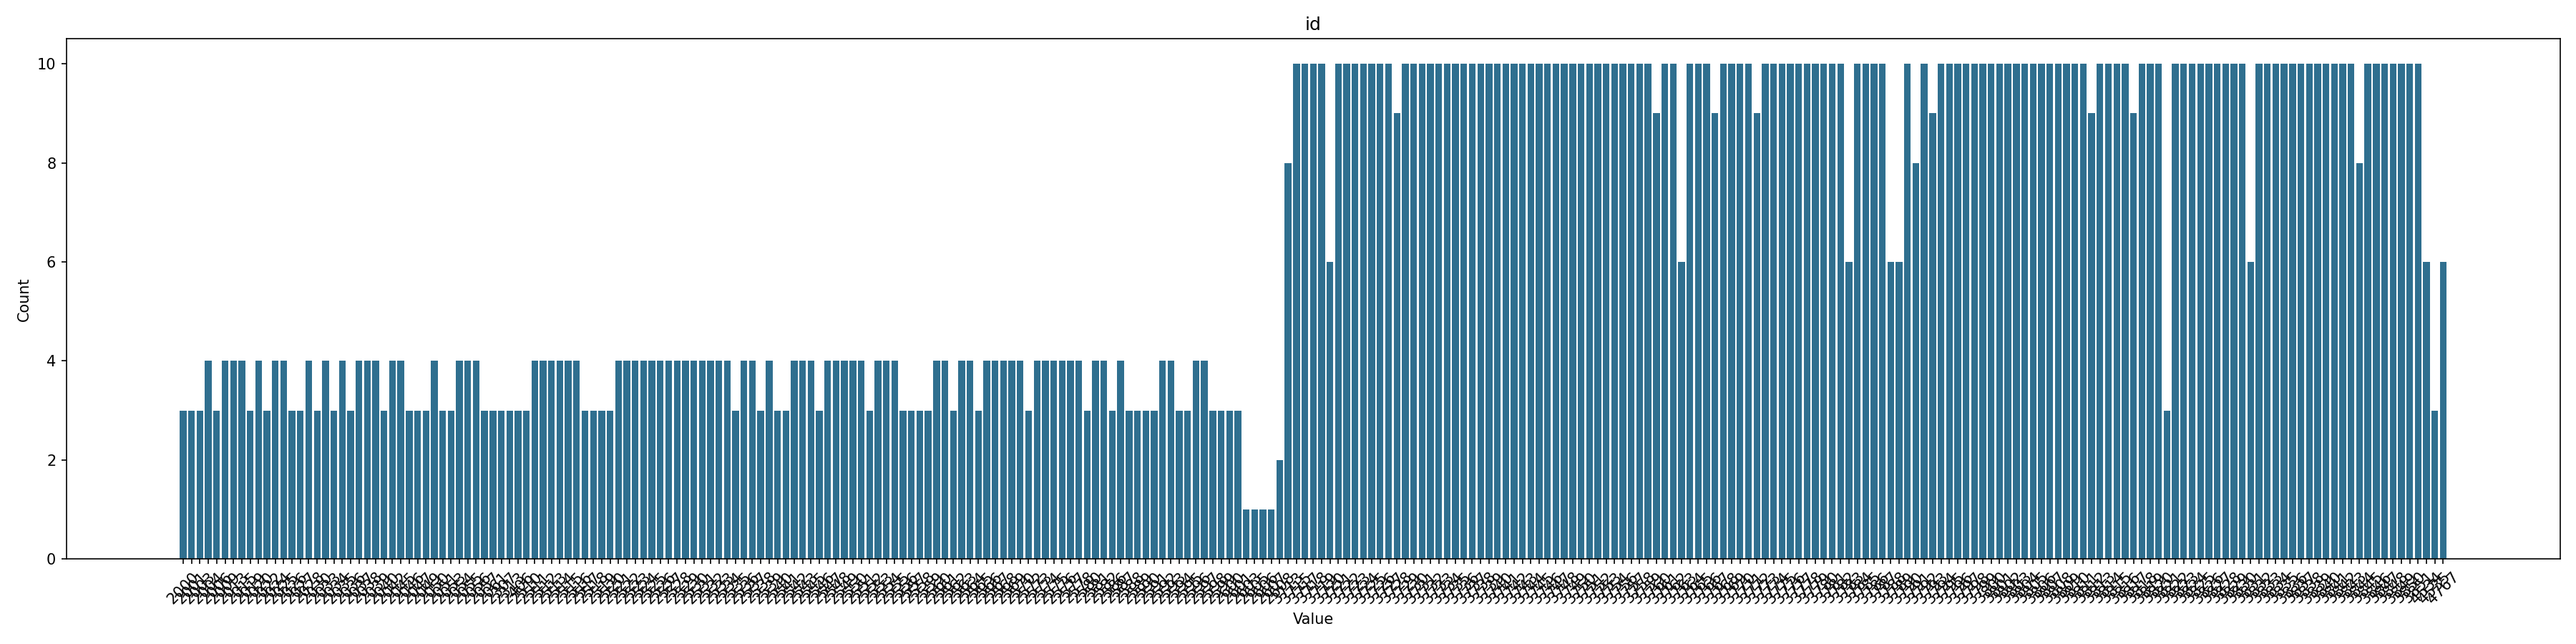
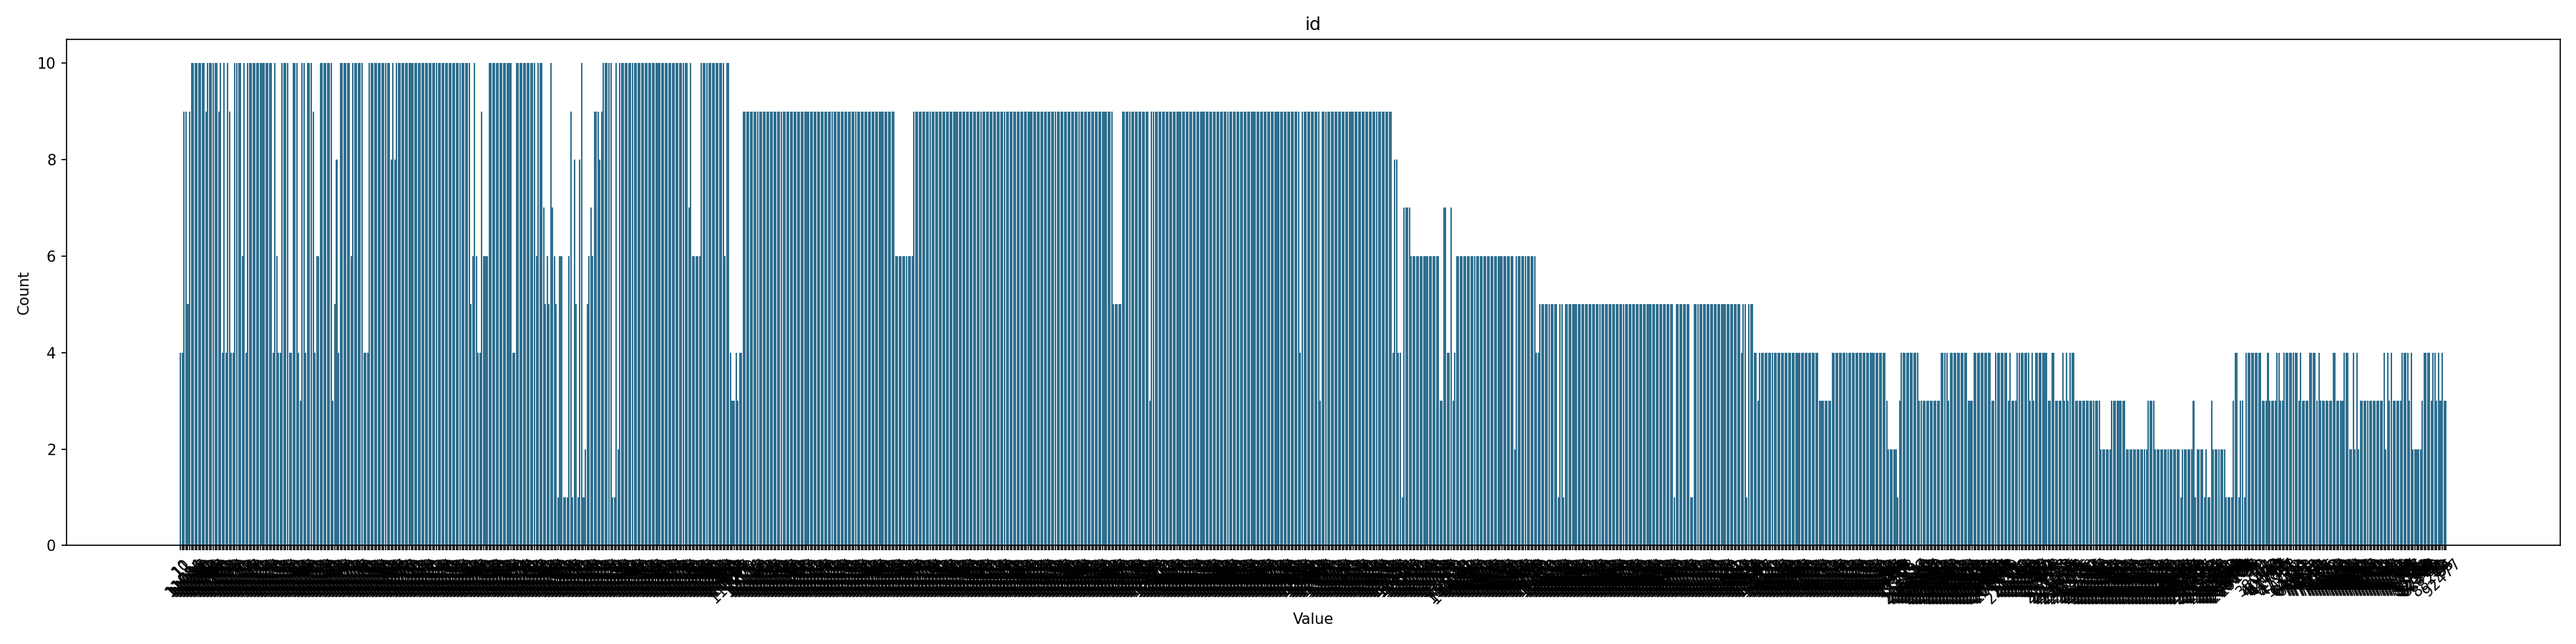
feat(data): distribution study for stations_extracted

diff --git a/src/visualisation/distributions.py b/src/visualisation/distributions.py
@@ -5,9 +5,9 @@ from pathlib import Path
 import matplotlib.pyplot as plt
 import pandas as pd
 
-INPUT_FILE = Path("data/interim/opendata_2022_2026.csv")
+INPUT_FILE = Path("data/interim/stations_extracted.csv")
 OUTPUT_DIR = Path("reports/figures/distributions/interim")
-EXCLUDE_COLUMNS = {"stations"}
+EXCLUDE_COLUMNS = {"ports"}
 
 
 def plot_value_counts(series: pd.Series, title: str, output_path: Path) -> None:
@@ -46,6 +46,7 @@ def main() -> None:
             continue
         safe_name = "".join(ch if ch.isalnum() or ch in ("-", "_") else "_" for ch in column)
         output_path = OUTPUT_DIR / f"{safe_name}.png"
+        print(f"Plotting distribution for column '{column}'...")
         plot_value_counts(df[column], title=column, output_path=output_path)
 
 
